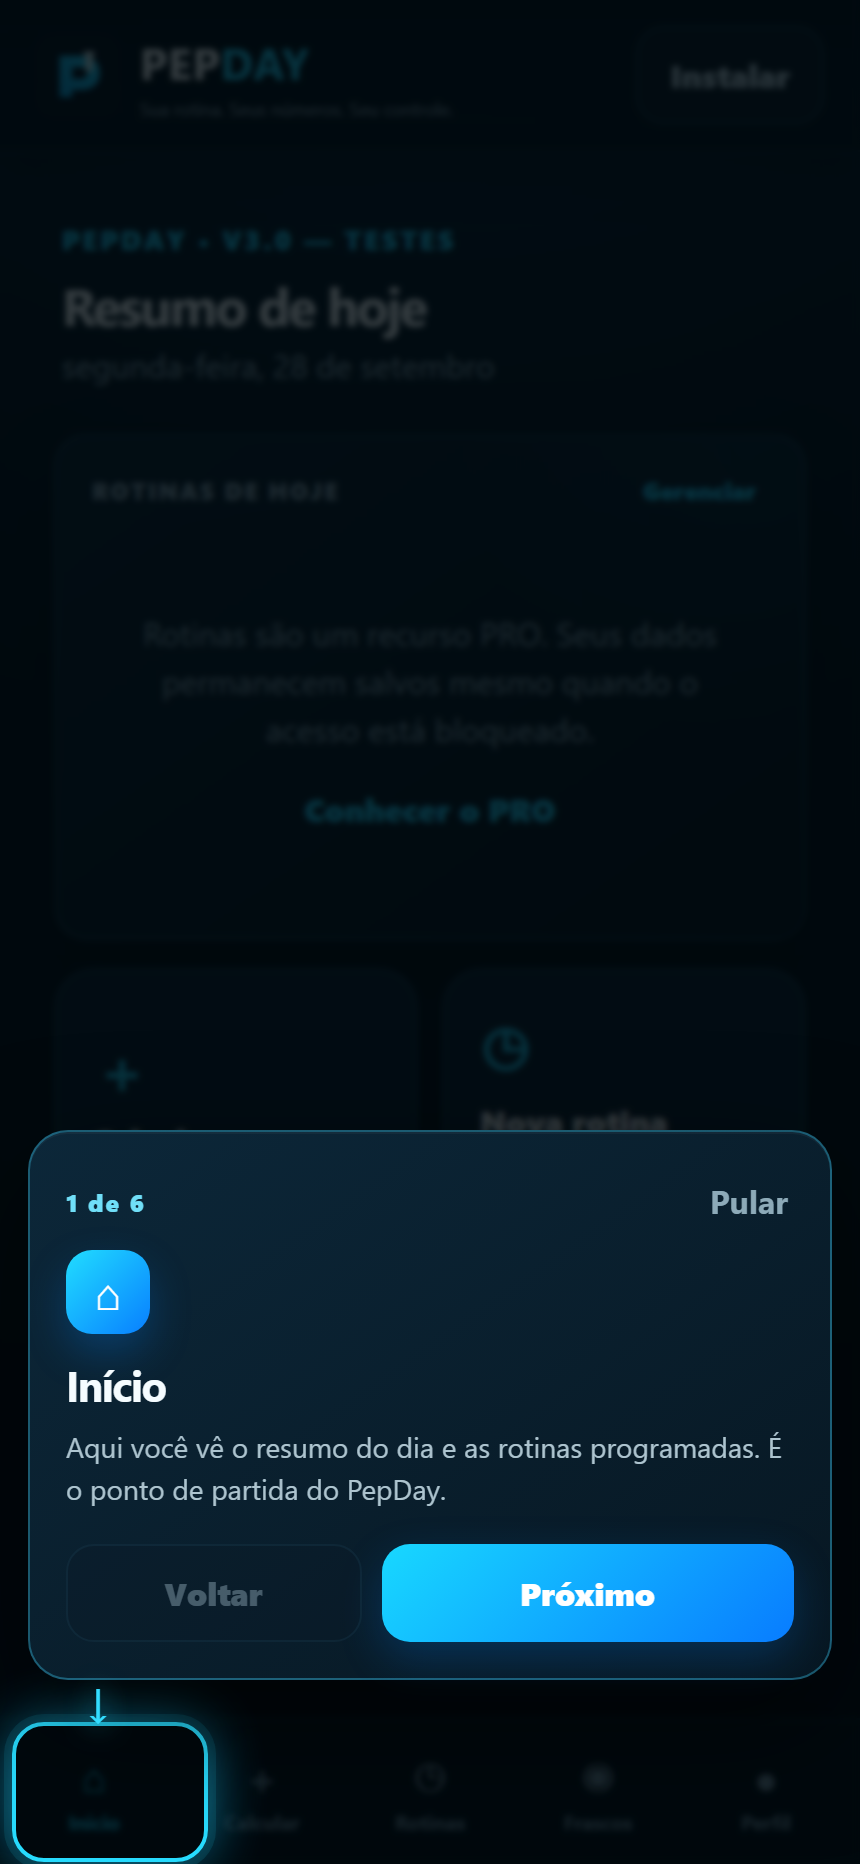
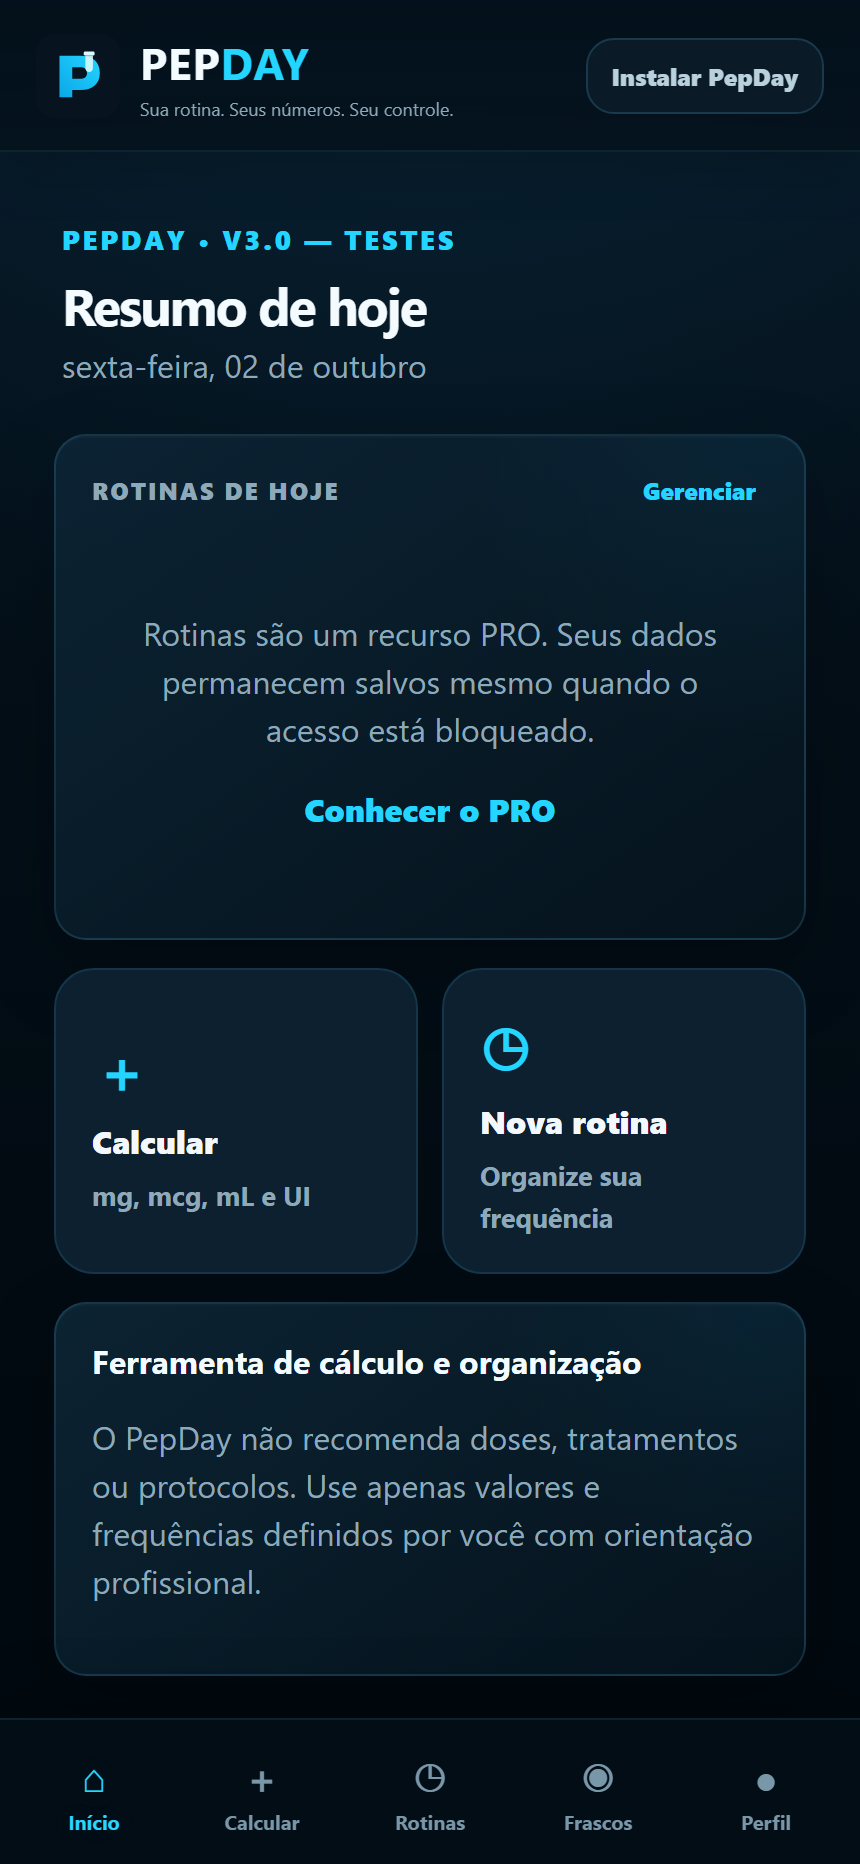
feat: strengthen landing routine and vial visuals

diff --git a/site/site.css b/site/site.css
@@ -17,6 +17,14 @@
 .proof{background:var(--soft)}.proof-placeholder{max-width:1100px;margin:auto;display:grid;grid-template-columns:repeat(3,1fr);gap:16px}.proof-placeholder>div{font-size:17px;font-weight:700;color:#435d6b}.proof-placeholder small{display:block;margin-top:18px;color:#849aa5;font-size:12px;font-weight:500}
 .final-cta{max-width:1180px;margin:70px auto;display:flex;align-items:center;justify-content:space-between;gap:30px;border-radius:30px;background:#081a26;color:#effbff}.final-cta h2{max-width:730px;margin-bottom:10px}.final-cta p{color:#9cb8c5}.final-cta .eyebrow{color:#4ee0ff}
 footer{padding:34px clamp(22px,6vw,90px);border-top:1px solid var(--line);display:grid;grid-template-columns:auto 1fr auto;align-items:center;gap:28px;color:#738792;font-size:12px}.footer-brand img{width:30px;height:30px}.footer-brand strong{font-size:17px}footer p{margin:0}footer>div:last-child{display:flex;gap:16px}footer a{text-decoration:none}
+.float-card-head{display:flex;align-items:center;gap:10px}.float-card-head small{margin:0}.mini-phone-visual{width:26px;height:38px;border:2px solid #0d7daf;border-radius:7px;background:#082435;box-shadow:0 8px 18px #0a7fa31c;position:relative;flex:0 0 auto}.mini-phone-visual:before{content:"";position:absolute;top:5px;left:5px;right:5px;height:4px;border-radius:999px;background:#21c8eb}.mini-phone-visual i,.mini-phone-visual b{position:absolute;left:5px;right:5px;height:3px;border-radius:999px;background:#8dd9e8}.mini-phone-visual i{top:15px}.mini-phone-visual b{top:22px;width:9px;background:#2ccbea}
+
+.vial-bottle{position:relative;display:inline-grid;grid-template-rows:auto 1fr;place-items:center;filter:drop-shadow(0 12px 18px #0c38552b);flex:0 0 auto}.vial-cap{display:block;width:68%;height:16%;min-height:7px;border-radius:4px 4px 2px 2px;background:linear-gradient(180deg,#d4e4eb,#7d9aa8 52%,#425d6c);border:1px solid #5e7d8c;z-index:2}.vial-glass{display:block;width:88%;height:84%;min-height:30px;position:relative;border:2px solid #7daaba;border-radius:5px 5px 13px 13px;background:linear-gradient(90deg,#e8fbff42,#ffffff14 40%,#7ecbe316 70%,#e8fbff26);overflow:hidden;box-shadow:inset 5px 0 8px #fff2,inset -5px 0 8px #3ea6c51c}.vial-glass:after{content:"PEPDAY";position:absolute;left:12%;right:12%;top:24%;padding:2px 0;text-align:center;font-size:7px;line-height:1;font-style:normal;font-weight:900;letter-spacing:.08em;color:#dff9ff;background:#0b2736d9;border-radius:3px;z-index:2}.vial-glass b{position:absolute;left:3px;right:3px;bottom:3px;height:64%;border-radius:2px 2px 8px 8px;background:linear-gradient(180deg,#4fe5ffb8,#0597d5d6);box-shadow:inset 0 8px 12px #bffaff38}.vial-bottle-mini{width:28px;height:38px}.vial-bottle-mini .vial-glass:after{font-size:4px}.vial-bottle-feature{width:54px;height:76px}.vial-bottle-screen{width:72px;height:100px}.vial-bottle-callout{width:46px;height:64px}
+
+.vial-feature{min-height:255px}.vial-feature-visual{margin-top:15px;display:flex;align-items:center;gap:16px;padding:13px 14px;border-radius:16px;background:linear-gradient(135deg,#effbfe,#f8fdff);border:1px solid #d7edf4}.vial-feature-data{min-width:0;flex:1}.vial-feature-data small{display:block;color:#75909e;font-size:9px;letter-spacing:.08em}.vial-feature-data strong{display:block;margin:2px 0 0;font-size:24px;color:#0b7ead}.vial-feature-data span{display:block;color:#76909d;font-size:11px}.vial-feature-data .meter{margin:10px 0 0;height:7px}
+
+.vial-phone .screen-dark{padding-top:28px}.vial-screen-card{display:flex;align-items:center;gap:14px;padding:14px;border:1px solid #1d4a61;border-radius:16px;background:linear-gradient(135deg,#0c2b3c,#0b2130);box-shadow:inset 0 0 22px #32cff20c}.vial-screen-data{display:grid;gap:2px}.vial-screen-data span{font-size:9px;letter-spacing:.12em;color:#64bdd5}.vial-screen-data strong{font-size:26px;color:#effaff;line-height:1.1}.vial-screen-data small{font-size:10px;letter-spacing:0;color:#82a8b8}.vial-screen-meter{height:8px;margin:13px 2px 14px;border-radius:999px;background:#0a1c28;border:1px solid #183d50;overflow:hidden}.vial-screen-meter i{display:block;height:100%;background:linear-gradient(90deg,#079fd7,#43dff7);box-shadow:0 0 12px #2cd4f466}.showcase-vial-note{position:absolute;right:0;bottom:30px;z-index:5;display:flex;align-items:center;gap:12px;width:245px;padding:13px 15px;border-radius:18px;background:#fff;border:1px solid #d8e9ef;box-shadow:var(--shadow)}.showcase-vial-note small{display:block;color:#76909e;font-size:9px;letter-spacing:.1em}.showcase-vial-note strong{display:block;margin-top:3px;font-size:12px;line-height:1.35;color:#173b4d}
+
 @media(max-width:980px){.topbar nav{display:none}.hero{grid-template-columns:1fr;padding-top:60px}.hero-copy{text-align:center;margin:auto}.hero-actions,.trust-row{justify-content:center}.hero-visual{min-height:540px}.problem-grid{grid-template-columns:1fr 1fr}.feature-grid{grid-template-columns:1fr 1fr}.showcase{grid-template-columns:1fr}.showcase-copy{text-align:center}.showcase-copy ul{display:inline-grid;text-align:left}.phones{max-width:650px;width:100%;margin:auto}.story-card{grid-template-columns:1fr}.plan-grid{grid-template-columns:1fr}.proof-placeholder{grid-template-columns:1fr}.final-cta{margin:40px 22px}.final-cta{flex-direction:column;text-align:center}footer{grid-template-columns:1fr;text-align:center}footer .brand,footer>div:last-child{justify-content:center}}
 @media(max-width:620px){.topbar{gap:10px}.topbar>.btn{display:none}.hero{padding:42px 18px 50px}.hero h1{font-size:42px}.hero-copy>p{font-size:16px}.hero-actions{flex-direction:column}.trust-row{gap:10px}.hero-visual{min-height:500px}.phone{width:235px}.screen-dark{min-height:450px}.float-card{width:170px;padding:12px}.card-routine{right:-5px}.card-vial{left:-5px}.section{padding:68px 18px}.problem-grid,.feature-grid,.steps-grid{grid-template-columns:1fr}.feature.big{grid-column:auto;grid-template-columns:1fr}.phones{min-height:500px}.phones .phone{width:205px}.tilted-left{left:2%}.tilted-right{right:1%}.story-card{padding:28px;gap:20px}.final-cta{padding:40px 22px}.section-heading h2,.story h2,.final-cta h2{font-size:34px}footer{padding:30px 18px}}
 
@@ -53,3 +61,6 @@ footer{padding:34px clamp(22px,6vw,90px);border-top:1px solid var(--line);displa
 .faq{background:#fff}.faq-list{max-width:900px;margin:auto;display:grid;gap:12px}.faq-list details{border:1px solid var(--line);border-radius:16px;background:#fff;box-shadow:0 8px 28px #13314709;overflow:hidden}.faq-list summary{position:relative;cursor:pointer;list-style:none;padding:19px 52px 19px 20px;font-weight:800;color:#173846}.faq-list summary::-webkit-details-marker{display:none}.faq-list summary:after{content:"+";position:absolute;right:20px;top:50%;transform:translateY(-50%);width:28px;height:28px;border-radius:50%;display:grid;place-items:center;background:#e9f8fc;color:#0877ae;font-size:18px}.faq-list details[open] summary:after{content:"−"}.faq-list details p{margin:0;padding:0 20px 20px;color:var(--muted);font-size:14px;line-height:1.65}.faq-list details[open]{border-color:#bfe5ef;box-shadow:0 12px 34px #0d8fb112}
 .mobile-cta{display:none}
 @media(max-width:620px){body{padding-bottom:74px}.plan-assurances{display:grid;justify-items:center}.plan-assurances span{text-align:center}.faq-list summary{padding:17px 48px 17px 17px}.faq-list details p{padding:0 17px 18px}.mobile-cta{position:fixed;z-index:40;left:14px;right:14px;bottom:max(12px,env(safe-area-inset-bottom));display:flex;align-items:center;justify-content:center;min-height:52px;border-radius:14px;background:linear-gradient(90deg,#0da8d3,#39d6f5);color:#04212d;text-decoration:none;font-weight:900;box-shadow:0 14px 34px #06283b3d;border:1px solid #8eeaff}}
+
+@media(max-width:980px){.showcase-vial-note{right:6%;bottom:18px}.vial-feature-visual{justify-content:center}}
+@media(max-width:620px){.showcase-vial-note{display:none}.vial-feature-visual{justify-content:flex-start}.vial-bottle-feature{width:48px;height:68px}.vial-screen-card{padding:10px;gap:9px}.vial-bottle-screen{width:55px;height:78px}.vial-screen-data strong{font-size:20px}.float-card-head{gap:7px}.mini-phone-visual{width:22px;height:32px}.vial-bottle-mini{width:24px;height:33px}}

diff --git a/site/index.html b/site/index.html
@@ -48,12 +48,18 @@
         <img class="phone-shot" src="./assets/calculator-u100-real.png" alt="Tela real da Calculadora PepDay com resultado matemático e seringa U-100">
       </div>
       <div class="float-card card-routine">
-        <small>ROTINA DE HOJE</small>
+        <div class="float-card-head">
+          <div class="mini-phone-visual" aria-hidden="true"><i></i><b></b></div>
+          <small>ROTINA DE HOJE</small>
+        </div>
         <strong>Organizada e visível</strong>
         <span>◷ Registro rápido</span>
       </div>
       <div class="float-card card-vial">
-        <small>FRASCO</small>
+        <div class="float-card-head">
+          <div class="vial-bottle vial-bottle-mini" aria-hidden="true"><i class="vial-cap"></i><i class="vial-glass"><b></b></i></div>
+          <small>FRASCO</small>
+        </div>
         <strong>Acompanhe o saldo</strong>
         <span>◉ Previsão de término</span>
       </div>
@@ -100,7 +106,7 @@
         </div>
       </article>
       <article class="feature"><span>PRO</span><h3>Rotinas</h3><p>Organize frequências, dias e registros em uma agenda clara.</p><div class="mini-list"><i>Hoje</i><b>Rotina A</b><b>Rotina B</b></div></article>
-      <article class="feature"><span>PRO</span><h3>Frascos</h3><p>Acompanhe saldo, histórico e previsão de término.</p><div class="meter"><i style="width:64%"></i></div><small>Saldo visual do frasco</small></article>
+      <article class="feature vial-feature"><span>PRO</span><h3>Frascos</h3><p>Acompanhe saldo, histórico e previsão de término conforme os usos são registrados.</p><div class="vial-feature-visual"><div class="vial-bottle vial-bottle-feature" aria-hidden="true"><i class="vial-cap"></i><i class="vial-glass"><b></b></i></div><div class="vial-feature-data"><small>EXEMPLO DE SALDO</small><strong>6,4 mg</strong><span>de 10 mg</span><div class="meter"><i style="width:64%"></i></div></div></div></article>
       <article class="feature"><span>PRO</span><h3>Histórico</h3><p>Consulte registros anteriores sem alterar o que já aconteceu.</p><div class="history-dots"><i></i><i></i><i></i><i></i></div></article>
       <article class="feature"><span>PRO</span><h3>Sincronização</h3><p>Dados locais primeiro e conta sincronizada quando possível.</p><div class="sync-pill">✓ SINCRONIZADO</div></article>
       <article class="feature"><span>PRO</span><h3>Lembretes no celular</h3><p>Receba lembretes direto no celular, mesmo com o PepDay fechado, para não depender só da memória.</p><div class="sync-pill">◷ LEMBRETES ATIVOS</div></article>
@@ -123,11 +129,12 @@
     <div class="showcase-copy">
       <div class="eyebrow">FEITO PARA O DIA A DIA</div>
       <h2>Abra no celular e encontre o que precisa sem complicação.</h2>
-      <p>O app mantém o visual dark premium por dentro, enquanto o site apresenta o produto de forma clara e direta.</p>
+      <p>Veja o resumo do dia, organize sua rotina e acompanhe o saldo de cada frasco conforme os registros são feitos.</p>
       <ul>
         <li>Resumo do dia logo na entrada</li>
         <li>Calculadora sempre disponível no FREE</li>
         <li>Rotinas e frascos no PRO</li>
+        <li>Saldo do frasco e previsão de término</li>
         <li>Lembretes no celular, mesmo com o app fechado</li>
         <li>Histórico preservado</li>
         <li>Instalação como PWA no celular</li>
@@ -137,13 +144,21 @@
       <div class="phone tilted-left real-app-phone">
         <img class="phone-shot" src="./assets/home-real.png" alt="Tela real da Home do PepDay em um celular">
       </div>
-      <div class="phone tilted-right">
+      <div class="phone tilted-right vial-phone">
         <div class="screen-dark">
           <small>FRASCOS</small><h3>Meus frascos</h3>
-          <div class="app-card">Frasco A <b>6,4 mg</b></div>
-          <div class="app-card">Frasco B <b>3,1 mg</b></div>
+          <div class="vial-screen-card">
+            <div class="vial-bottle vial-bottle-screen" aria-hidden="true"><i class="vial-cap"></i><i class="vial-glass"><b></b></i></div>
+            <div class="vial-screen-data"><span>FRASCO A</span><strong>6,4 mg</strong><small>de 10 mg</small></div>
+          </div>
+          <div class="vial-screen-meter"><i style="width:64%"></i></div>
+          <div class="app-card">Previsão de término <b>visível</b></div>
           <div class="app-card muted-card">Histórico preservado</div>
         </div>
+      </div>
+      <div class="showcase-vial-note">
+        <div class="vial-bottle vial-bottle-callout" aria-hidden="true"><i class="vial-cap"></i><i class="vial-glass"><b></b></i></div>
+        <div><small>SALDO DO FRASCO</small><strong>Vai diminuindo conforme os registros</strong></div>
       </div>
     </div>
   </section>
